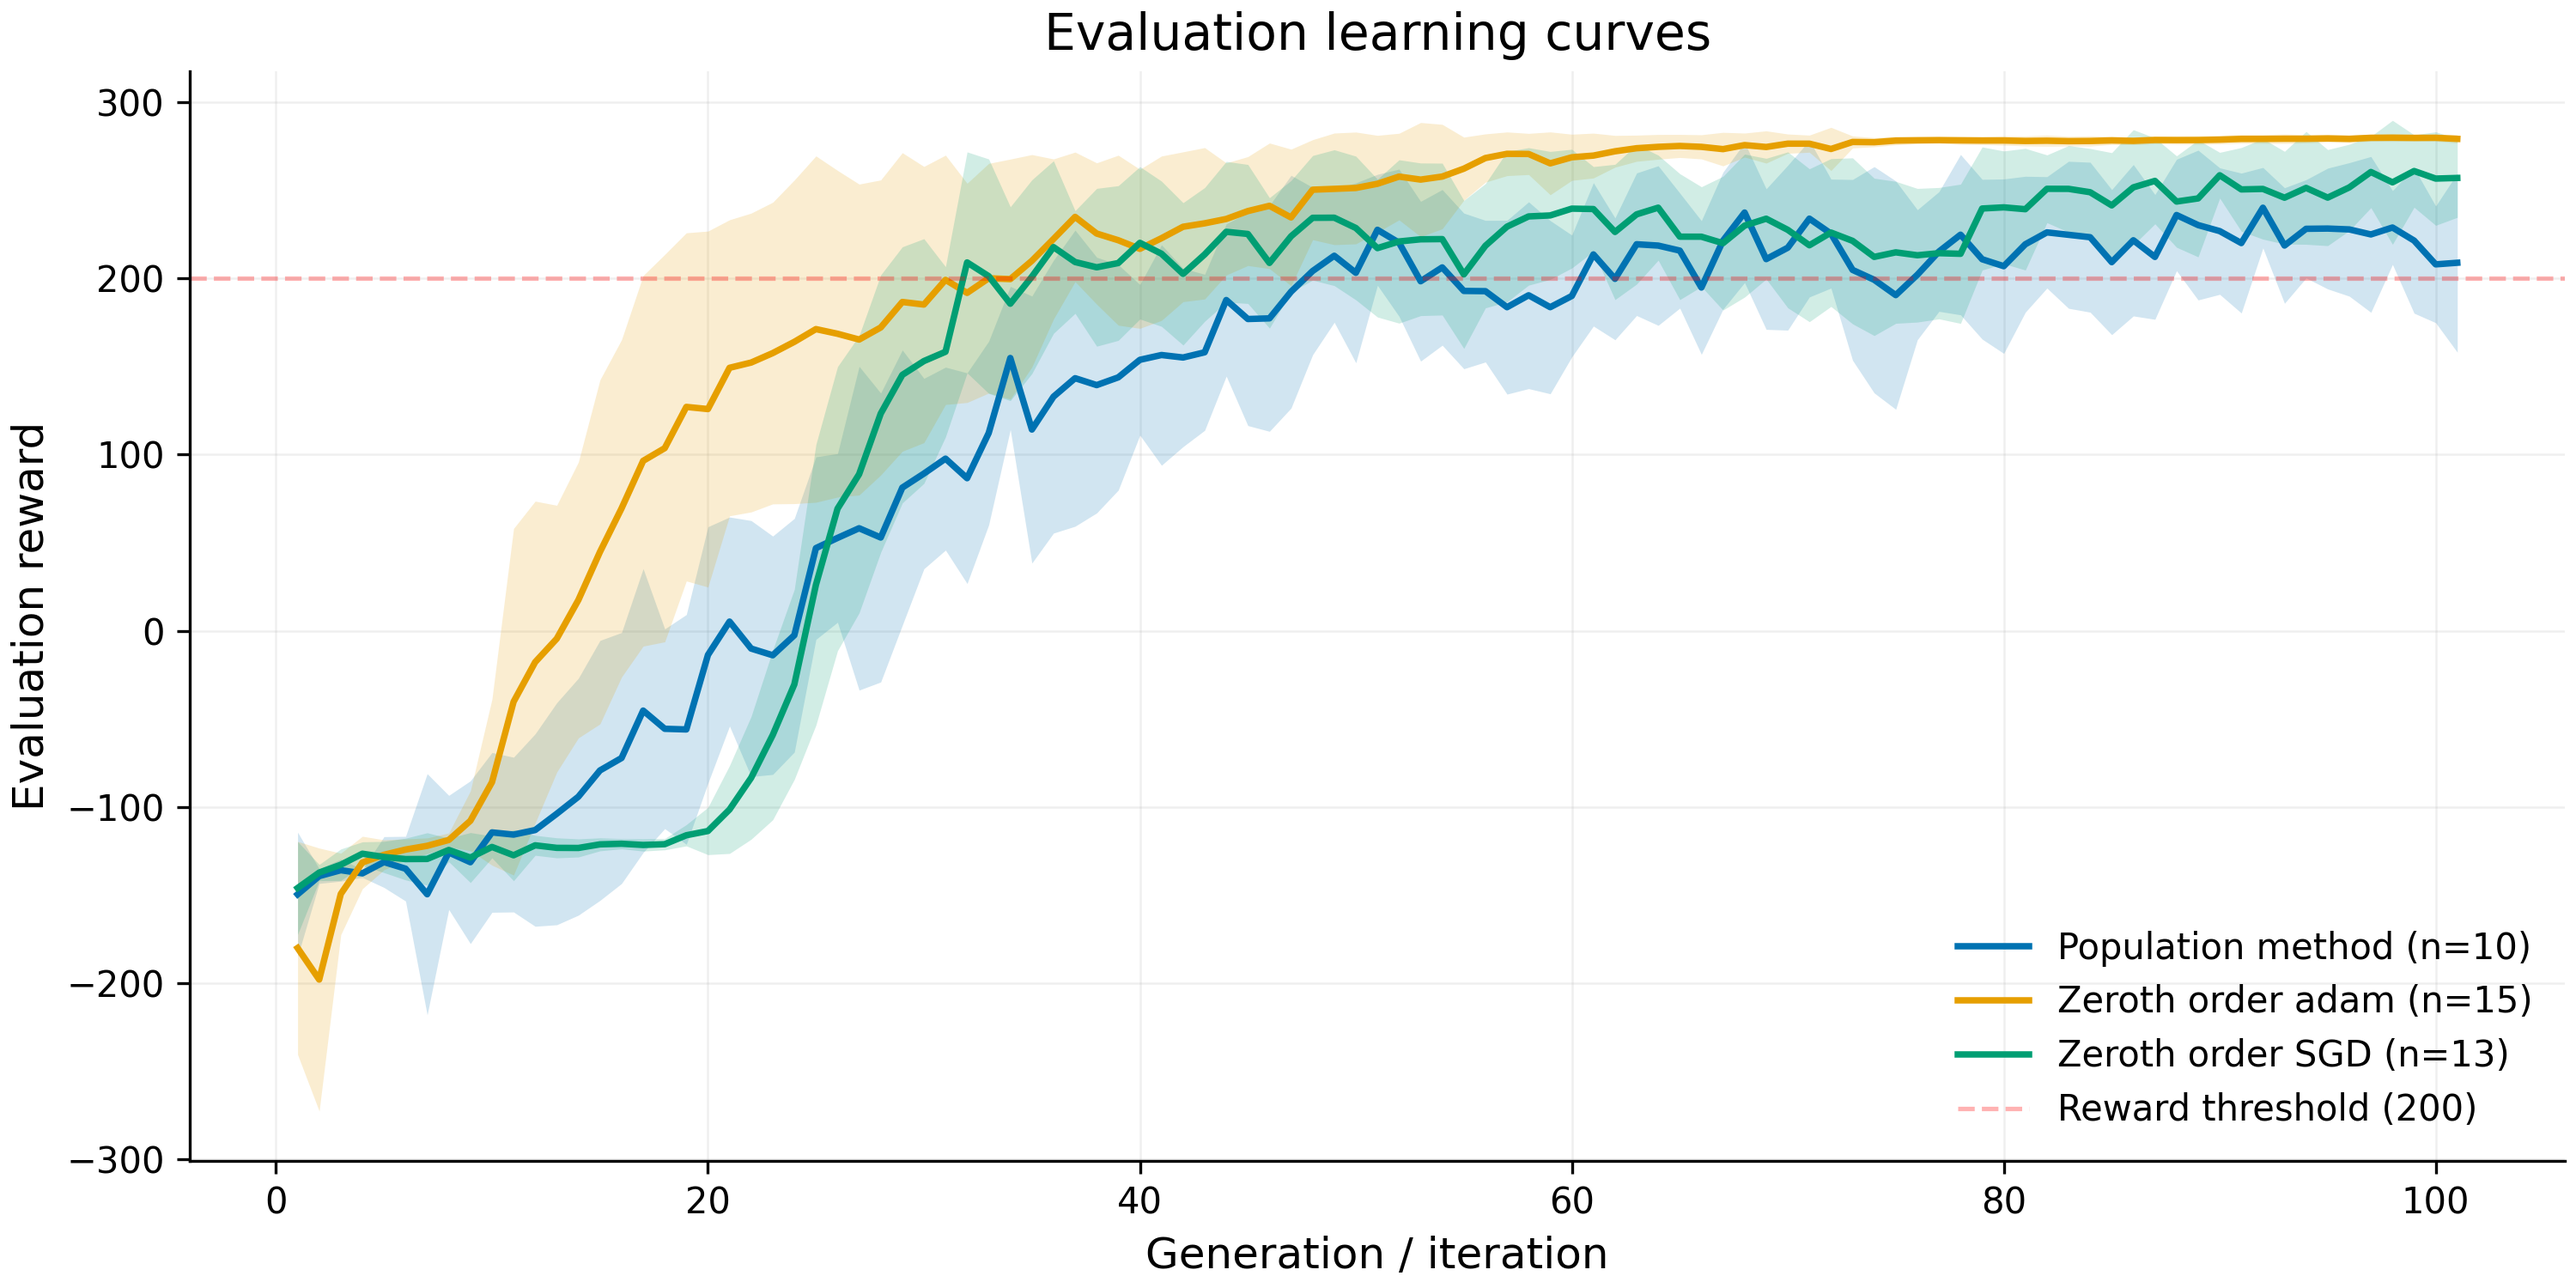
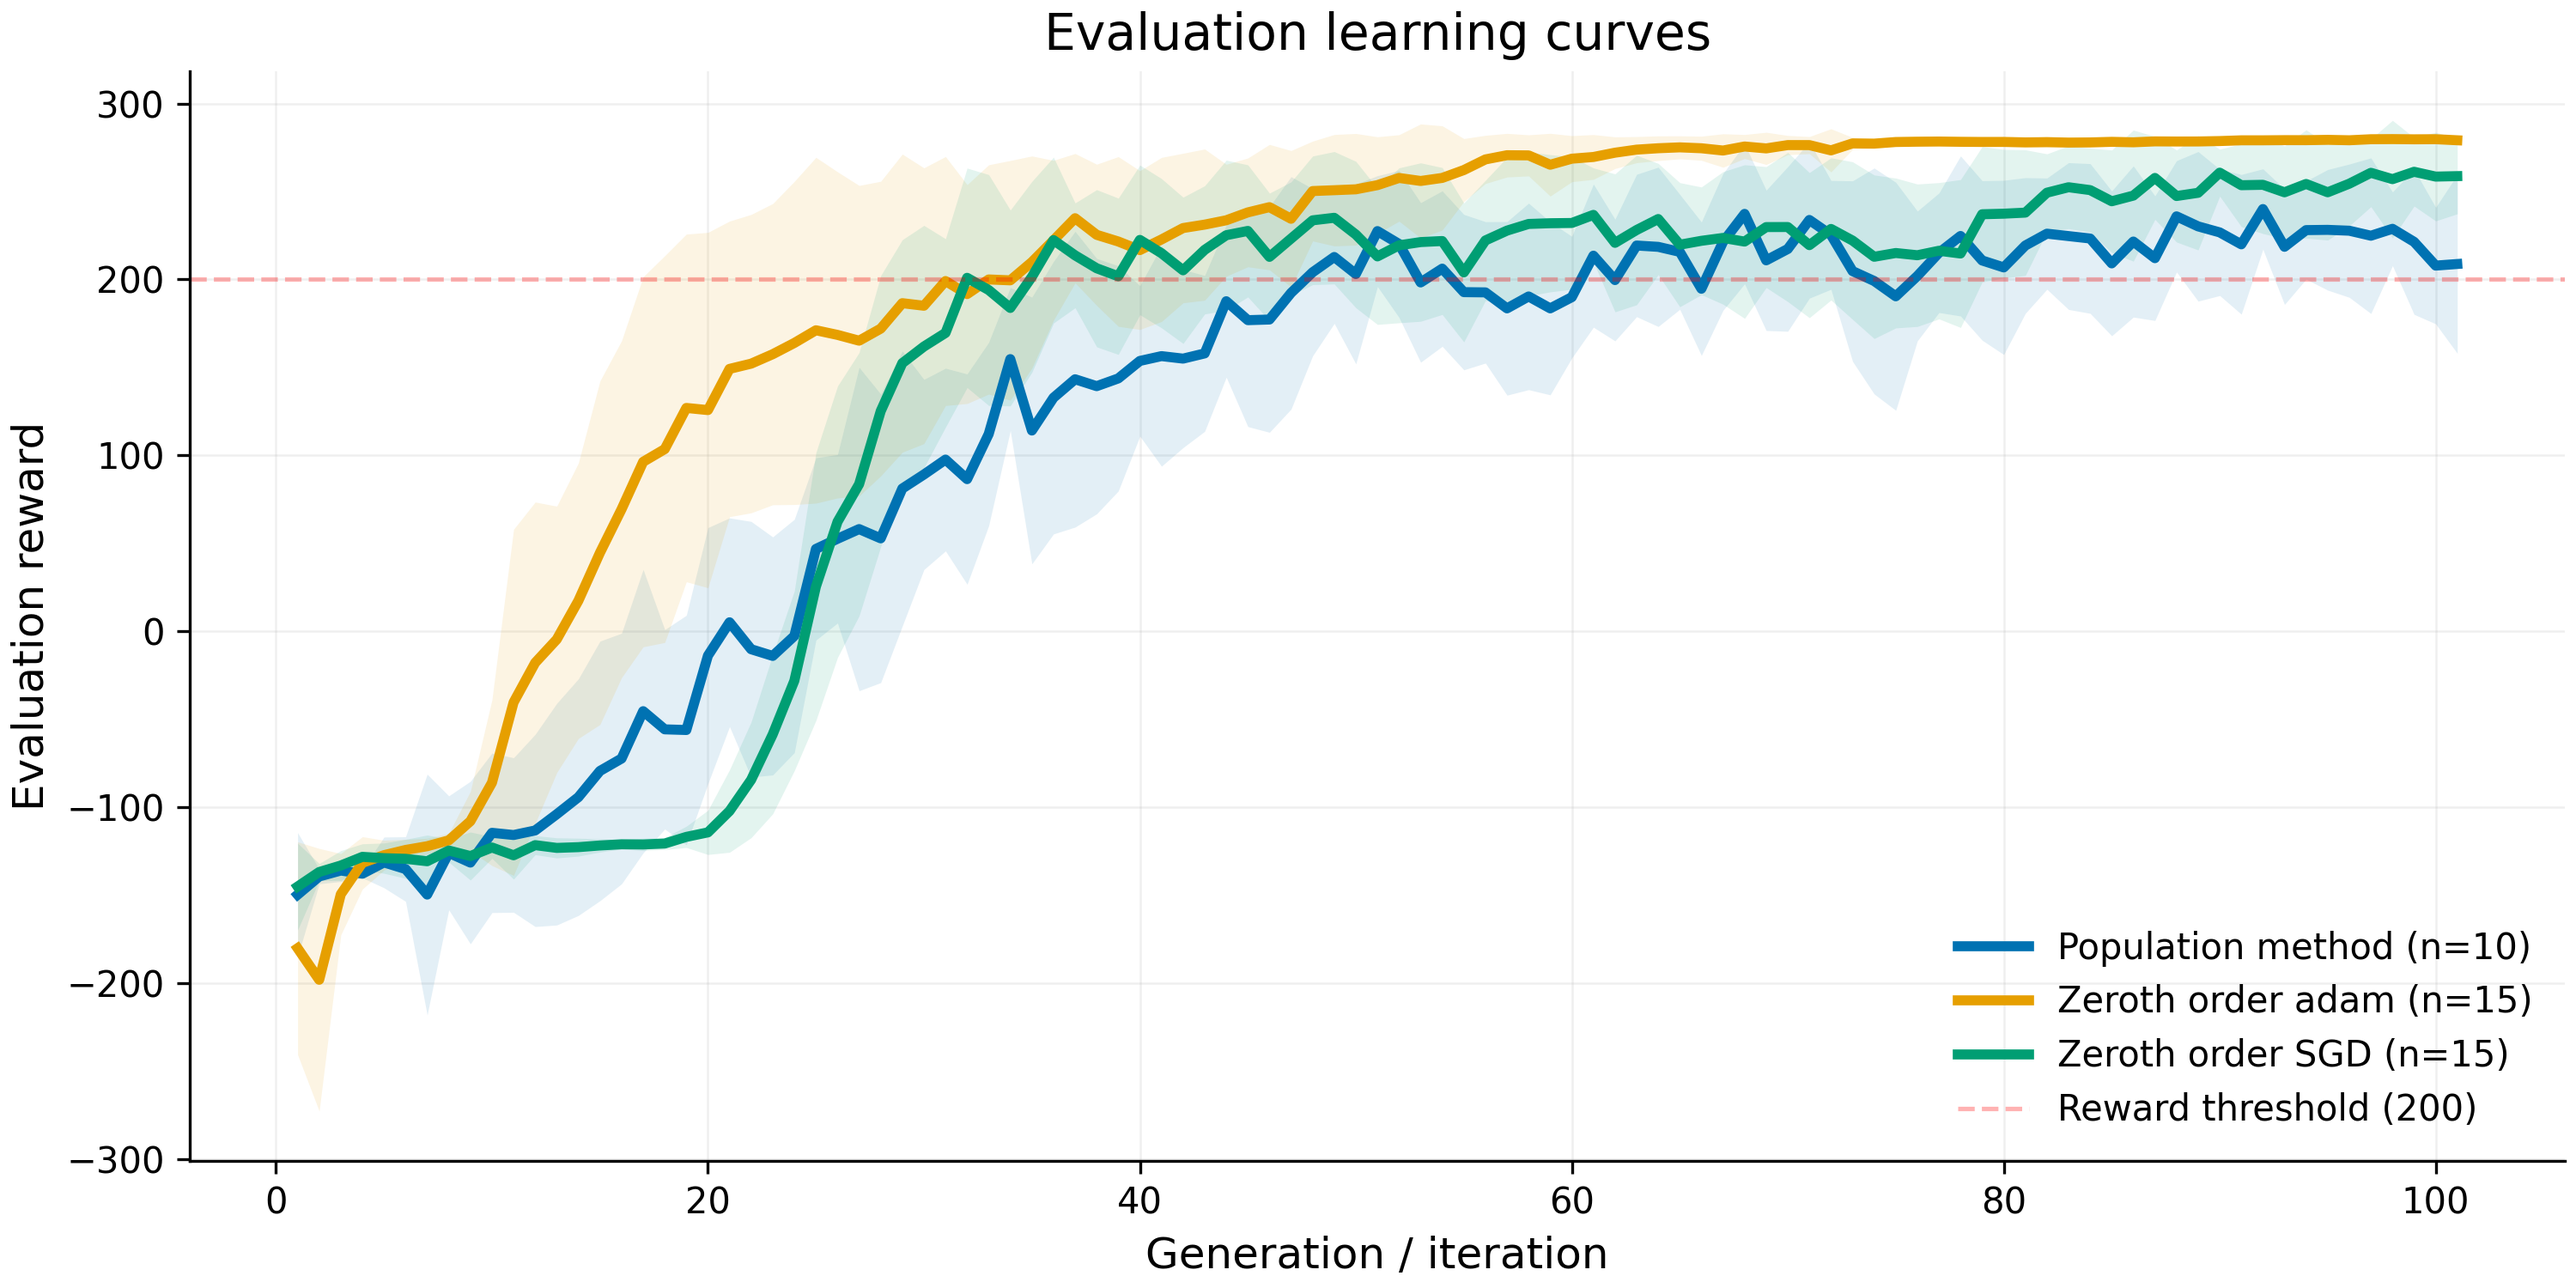
minor upds

diff --git a/zeroth_order_sgd.py b/zeroth_order_sgd.py
@@ -3,7 +3,6 @@
 import argparse
 import csv
 import time
-from functools import partial
 from pathlib import Path
 
 import gymnasium as gym
@@ -14,22 +13,33 @@ from jax import flatten_util
 
 from utils import Config, centered_ranks, format_elapsed_time
 
+# Set CPU execution before initializing policy arrays.
+jax.config.update("jax_platforms", "cpu")
 
-def init_params(key, observation_dim, action_dimension, hidden_size):
+cfg = Config()
+env = gym.make(
+    cfg.env_name,
+    continuous=cfg.continuous,
+    enable_wind=cfg.enable_wind,
+    max_episode_steps=cfg.max_episode_steps,
+)
+
+observation_dim = env.observation_space.shape[0]
+action_dimension = env.action_space.shape[0]
+action_bound = env.action_space.high[0]
+
+
+def init_params(key):
     k1, k2 = jax.random.split(key, 2)
-    w1 = jax.random.normal(
-        k1, (observation_dim, hidden_size)
-    ) * 0.1
-    b1 = jnp.zeros((hidden_size,))
-    w2 = jax.random.normal(
-        k2, (hidden_size, action_dimension)
-    ) * 0.1
+    w1 = jax.random.normal(k1, (observation_dim, cfg.hidden_size)) * 0.1
+    b1 = jnp.zeros((cfg.hidden_size,))
+    w2 = jax.random.normal(k2, (cfg.hidden_size, action_dimension)) * 0.1
     b2 = jnp.zeros((action_dimension,))
     return dict(w1=w1, b1=b1, w2=w2, b2=b2)
 
 
-def _forward_step(flat_params, observation, unravel_fn, action_bound):
-    """Evaluate one observation using flattened parameters."""
+def _forward_step(flat_params, observation):
+    """Forward pass for a single observation using flattened parameters."""
     params_tree = unravel_fn(flat_params)
     w1 = params_tree['w1']
     b1 = params_tree['b1']
@@ -41,8 +51,11 @@ def _forward_step(flat_params, observation, unravel_fn, action_bound):
     return x * action_bound
 
 
-def run_episode(flat_params, random_state, env, forward_step):
-    """Return one episode reward using the supplied environment and policy."""
+forward_step = jax.jit(_forward_step)
+
+
+def run_episode(flat_params, random_state):
+    """Return one episode reward using the shared environment and policy."""
     episode_over = False
     cumulative_reward = 0.0
     state, _ = env.reset(seed=random_state)
@@ -85,9 +98,14 @@ def sample_perturbations(key, pop_size, parameter_dim, sampling="gaussian"):
     return directions.T * radii[:, None]
 
 
+# Initialize the parameter structure used by the module-level forward pass.
+_, unravel_fn = flatten_util.ravel_pytree(init_params(jax.random.key(0)))
+
+
 def main(argv=None):
     """Train fixed-sigma SGD and log benchmark mean rewards."""
-    cfg = Config()
+    global unravel_fn
+
     parser = argparse.ArgumentParser(description=__doc__)
     parser.add_argument(
         "--seed", type=int, default=Config.seed,
@@ -106,29 +124,12 @@ def main(argv=None):
     print(f"\nSeed: {cfg.seed}\n")
     start_training = time.time()
 
-    env = gym.make(
-        cfg.env_name,
-        continuous=cfg.continuous,
-        enable_wind=cfg.enable_wind,
-        max_episode_steps=cfg.max_episode_steps,
-    )
     try:
-        observation_dim = env.observation_space.shape[0]
-        action_dimension = env.action_space.shape[0]
-        action_bound = env.action_space.high[0]
-
         key = jax.random.key(cfg.seed)
         # Consume a separate initialization key before the training splits.
         key, init_key = jax.random.split(key)
-        params_dict = init_params(
-            init_key, observation_dim, action_dimension, cfg.hidden_size
-        )
+        params_dict = init_params(init_key)
         theta, unravel_fn = flatten_util.ravel_pytree(params_dict)
-
-        # Bind per-run constants before tracing, as in the original closure.
-        forward_step = jax.jit(partial(
-            _forward_step, unravel_fn=unravel_fn, action_bound=action_bound
-        ))
 
         parameter_dim = theta.size
         sigma = cfg.sigma
@@ -162,13 +163,11 @@ def main(argv=None):
                     rewards_pos.append(
                         run_episode(
                             theta + sigma * eps[j], random_state + j,
-                            env, forward_step,
                         )
                     )
                     rewards_neg.append(
                         run_episode(
                             theta - sigma * eps[j], random_state + j,
-                            env, forward_step,
                         )
                     )
 
@@ -186,7 +185,7 @@ def main(argv=None):
                 theta += learning_rate * gradient
 
                 rewards = [
-                    run_episode(theta, seed, env, forward_step)
+                    run_episode(theta, seed)
                     for seed in cfg.eval_seeds
                 ]
                 mean_r = np.mean(rewards)

diff --git a/utils.py b/utils.py
@@ -104,10 +104,10 @@ def plot_learning_curves(results_dir="results", save_path=None, show=False):
     for index, (method, generations, mean, std, count) in enumerate(summaries):
         label = method.replace("_", " ").capitalize().replace("sgd", "SGD")
         color = colors[index % len(colors)]
-        ax.plot(generations, mean, color=color, linewidth=1.8,
+        ax.plot(generations, mean, color=color, linewidth=2.8,
                 label=f"{label} (n={count})")
         ax.fill_between(generations, mean - std, mean + std,
-                        color=color, alpha=0.18, linewidth=0)
+                        color=color, alpha=0.11, linewidth=0)
 
     ax.axhline(y=200, color="red", alpha=0.3, linestyle="--", linewidth=1.25,
                label="Reward threshold (200)")

diff --git a/zeroth_order_adam_parallel.py b/zeroth_order_adam_parallel.py
@@ -1,14 +1,15 @@
 import argparse
 import csv
-import multiprocessing as mp
 import time
+import multiprocessing as mp
 from concurrent.futures import ProcessPoolExecutor
 from pathlib import Path
 
-import gymnasium as gym
+
 import jax
 import jax.numpy as jnp
 import numpy as np
+import gymnasium as gym
 from jax import flatten_util
 from jax.example_libraries import optimizers as jax_opt
 

diff --git a/README.md b/README.md
@@ -1,87 +1,113 @@
-# DeepRL - Gradient-free optimization method
+# Gradient-Free Reinforcement Learning for LunarLander-v3
 
 Gradient-Free optimization methods are able to optimize a function without computing its gradient.
 In RL, this means that they allow to improve a policy without having to compute the gradient of its parameters.
 
-## Population methods
+This project starts with a simple population-based method and then compares zeroth-order optimization using SGD and Adam. The Adam implementation also uses parallel rollouts to reduce training time.
 
-Population methods are a nice choice for complex optimization problems where traditional methods fail to perform adequately due to issues like non-differentiability, high dimensionality, or rugged search landscapes. 
+## Environment
 
-### Usage
+Experiments use the continuous version of Lunar Lander v3 [Gym Documentation](https://gymnasium.farama.org/environments/box2d/lunar_lander/), with episodes limited to 500 steps. Policies output the two continuous engine-control actions directly.
+
+<p align="center">
+<img src="https://github.com/user-attachments/assets/3621e183-082e-4489-8473-d98b6cab81fe" width="600" height="400">
+<figcaption><small>The resulting .gif comes from a trained agent following population method.</small></figcaption>
+</p>
+
+
+## Methods
+
+### Population method
+
+The first approach uses a population of neural-network policies. At each generation, the best-performing policies are selected and used to produce a new population through parameter perturbations. This provides a simple gradient-free baseline before moving to zeroth-order gradient estimation.
+
+#### Usage
 
 ```bash
+# Default run
 python population_method.py
-python population_method.py --seed 5678
+# Select the training seed and device
 python population_method.py --seed 5678 --device cuda
 ```
 
 The default training seed is 1234 and the default device is CPU; CUDA is
-optional and requires an available CUDA device. The experiment uses continuous
-`LunarLander-v3` with a 500-step episode limit.
+optional and requires an available CUDA device. 
 
 Each generation, the current parent policy is evaluated without exploration
 noise on 5 fixed environment seeds, independent of the training seed. Each
 run writes `generation,reward` CSV data (generation and evaluation reward) to
 `results/population_method_seed-<seed>.csv`.
 
-## Environment
-Continuous Lunar Lander v3 [Gym Documentation](https://gymnasium.farama.org/environments/box2d/lunar_lander/).
 
-## Results
+### Zeroth-order Optimization 
 
-<img src="https://github.com/user-attachments/assets/3621e183-082e-4489-8473-d98b6cab81fe" width="600" height="400">
+Zeroth-order optimization estimates an update direction from policy evaluations rather than backpropagating through the environment. For each Gaussian perturbation, the policy is evaluated at both $\theta+ \sigma \varepsilon$  and $\theta - \sigma \varepsilon$. Ranked rewards from these mirrored evaluations are then used to estimate how the policy parameters should move.
 
+Both zeroth-order implementations use the same fixed perturbation scale and evaluation protocol. The main difference is how the estimated update is applied.
 
-The environment is considered solved if the agent scores at least 200 points.
+### Zeroth-order SGD
 
-The model stabilises after 60 iterations of the algorithm. 
+The SGD version applies the estimated zeroth-order update directly to the policy parameters. A fixed learning rate of $\alpha=4.0$ is used with a population of 128 perturbation directions.
 
-<img src="docs/images/learning_curves.png" width="800" height="400">
+Gaussian perturbations are used by default. An optional orthogonal Gaussian sampler is also included as an experimental variance-reduction strategy.
 
-## *UPDATE
-
-## Zeroth-order Optimization 
-
-These methods estimate the gradient using function evaluations of the objective, often by perturbing the policy and observing the resulting reward. The algorithm perturbs θ in two opposite directions, evaluates them,
-and uses which one achieves the best results in order to compute how to move θ so that the quality of the policy improves.
-
-## Zeroth-order SGD
-
-During development, momentum-based SGD and adaptive-$\sigma$ variants were also explored. These remain experimental. The retained baseline uses plain SGD with a fixed perturbation scale.
-
-### Usage
+#### Usage
 
 ``` bash
-# Default run: seed 1234
+# Default run
 python zeroth_order_sgd.py
-python zeroth_order_sgd.py --seed 5678
+# Select the training seed and optional orthogonal Gaussian sampling
+python zeroth_order_sgd.py --seed 5678 --sampling orthogonal
 ```
 
 
-## Zeroth-order Adam
+### Zeroth-order Adam
 
+The Adam version uses the same zeroth-order gradient estimate but applies it with Adam instead of plain SGD. Adam adapts the update scale for each parameter and produces a smoother learning curve in these experiments.
 
-### Usage
+The Adam experiment uses a larger population of 256 perturbation directions and evaluates them in parallel using worker processes.
 
-### Parallel
+#### Usage
 
-The parallel implementation reduces the same 101-iteration Adam experiment from 23m43s to 4m42s, a 5.05× wall-clock speedup.
+``` bash
+# Default run
+python zeroth_order_adam_parallel.py
+# Select the training seed and number of workers
+python zeroth_order_adam_parallel.py --seed 5678 --workers 8
+```
 
+#### Parallel evaluation
+
+Zeroth-order methods require many independent policy evaluations, which makes them well suited to parallel execution. Reusing a persistent pool of worker processes reduced the 101-iteration Adam experiment from 23m43s with one worker to 4m42s with 16 workers, corresponding to a 5.05× wall-clock speedup.
+
+<p align="center">
 <img src="docs/images/adam_parallel_scaling.png" width="800">
+</p>
+
+## Experimental Settings
+
+| Method | Framework | Population | Update | Learning rate | Noise / perturbation | 
+|---|---|---:|---|---:|---:|
+| Population method | PyTorch | 40 policies | Selection + mutation | — | 0.1 | 
+| Zeroth-order SGD | JAX | 128 directions | SGD | 4.0 | σ = 0.5 | 
+| Zeroth-order Adam | JAX | 256 directions | Adam | 0.15 | σ = 0.5 | 
 
 ## Results
 
-We approach two methods of optimization: SGD and Adam both very popular methods.
+The environment is considered solved if the agent scores at least 200 points.
 
-|| SGD | Adam |
-| --- | --- | --- |
-learning rate | 0.5 | 0.15 |
-population | 128 | 256 |
+The figure below shows the mean evaluation reward across independent training runs. Each trained policy is evaluated on the same five fixed environment seeds.
+
+<p align="center">
+<img src="docs/images/learning_curves.png" width="900" height="500">
+</p>
+
+All three methods eventually reach the 200-point reward. Zeroth-order Adam improves the fastest and reaches the highest average reward, stabilizing close to 280. Zeroth-order SGD also reaches the benchmark reliably, but with more variation between iterations. The population method learns more slowly and remains more variable, but still reaches successful policies.
 
 
-Part of the rapid solution of the environment is due to the size of the population we use.
+<!-- Part of the rapid solution of the environment is due to the size of the population we use.
 
-<img src="https://github.com/user-attachments/assets/ae111b9d-d9bf-40de-877f-2c8704c19eb1" width="800" height="400">
+<img src="https://github.com/user-attachments/assets/ae111b9d-d9bf-40de-877f-2c8704c19eb1" width="800" height="400"> -->
 
 
 <!-- We included the standard deviation of the parent policy during evaluation. This allows us to observe the role played by the learning rate. Having a smoother progression with the Adam method.
